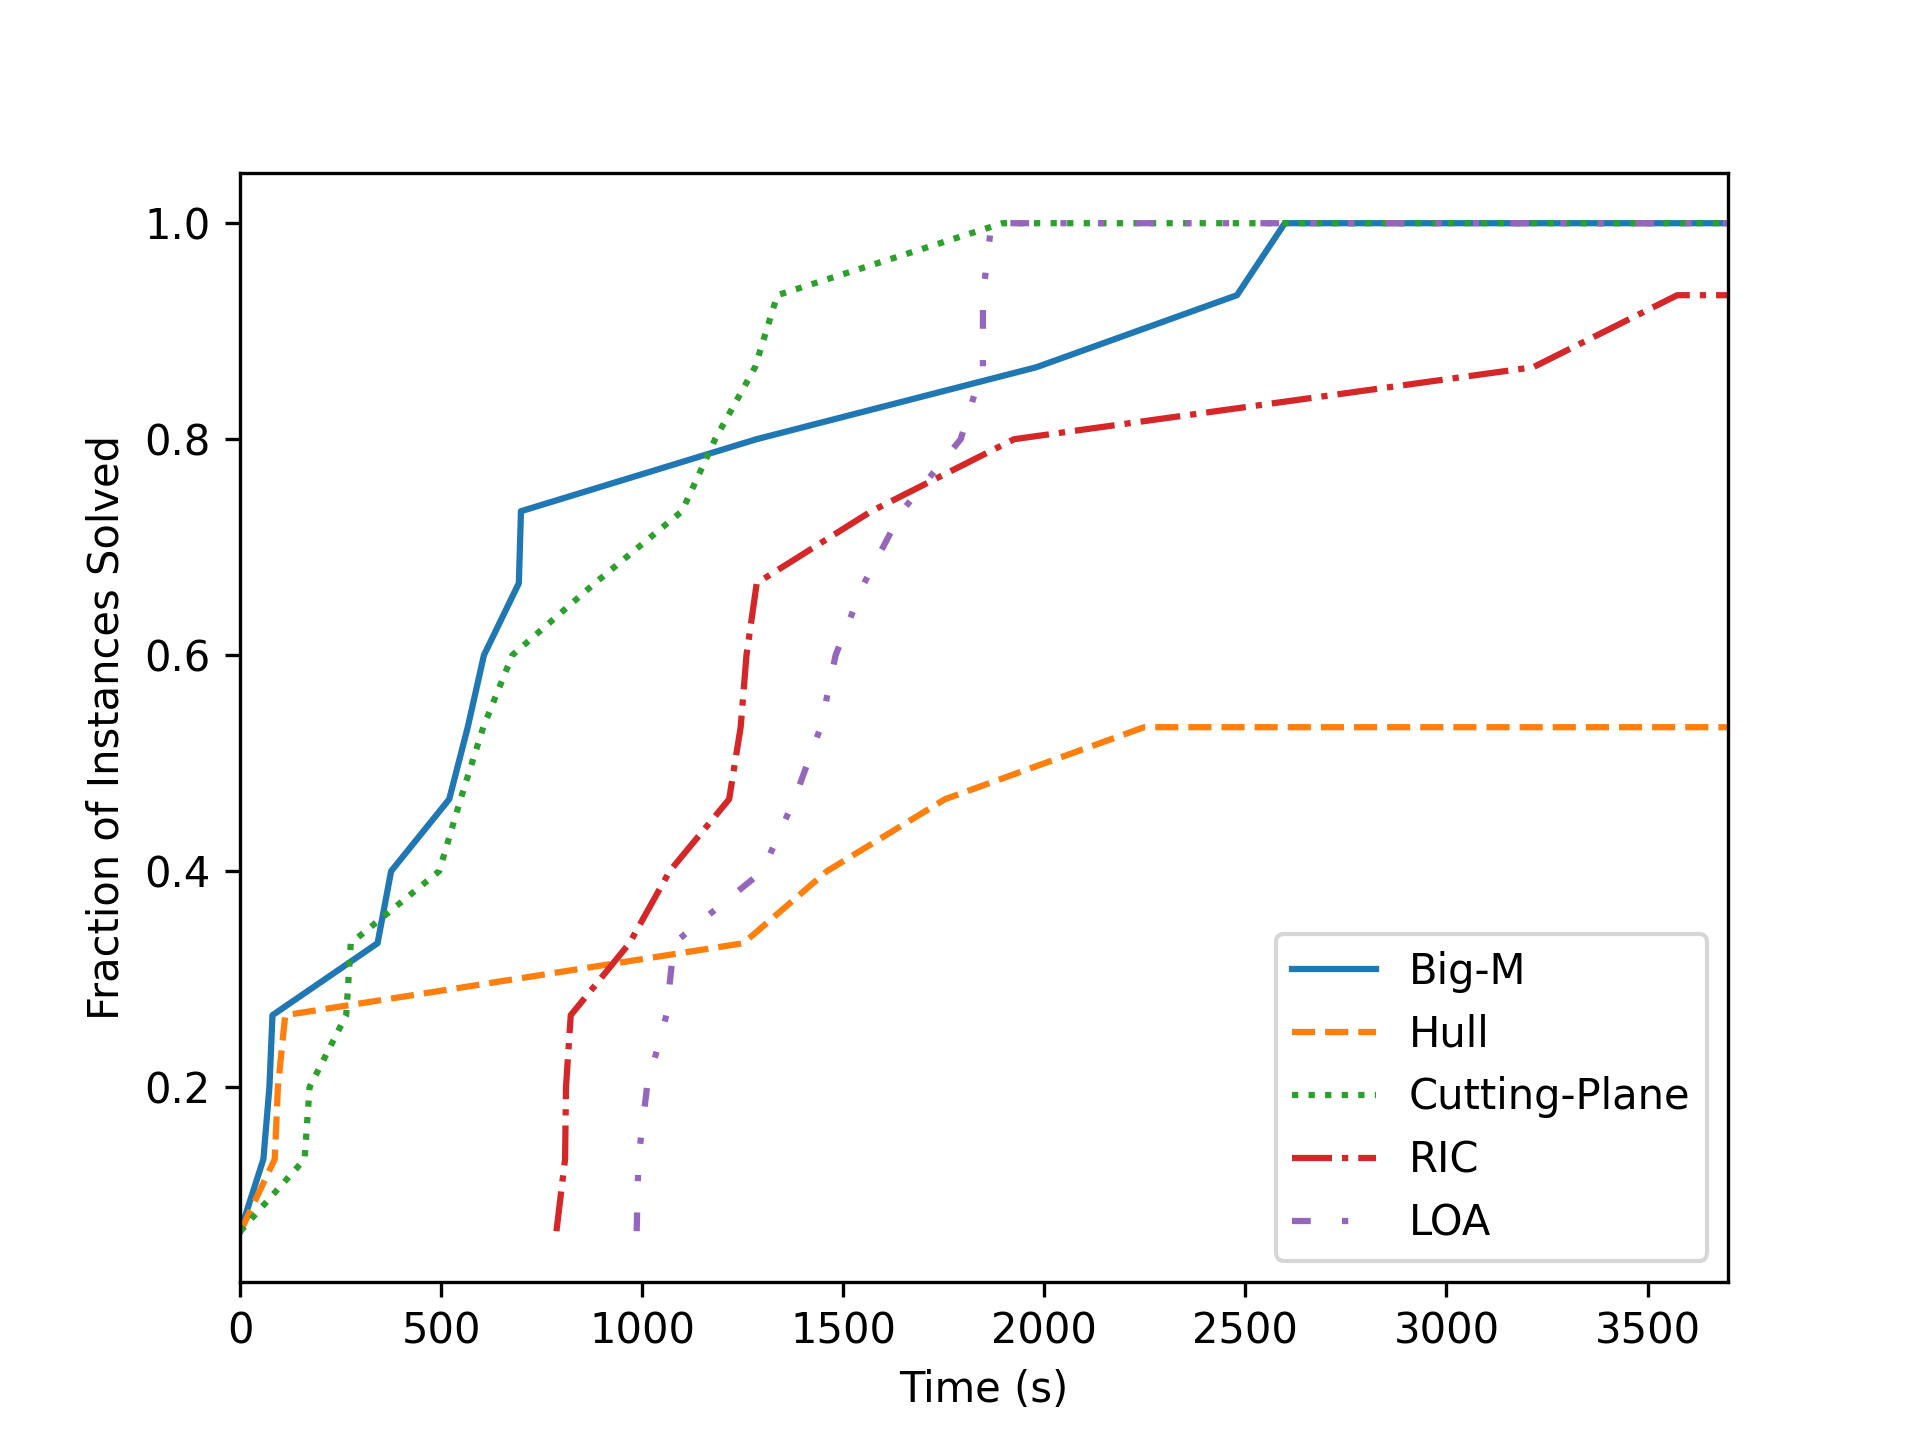
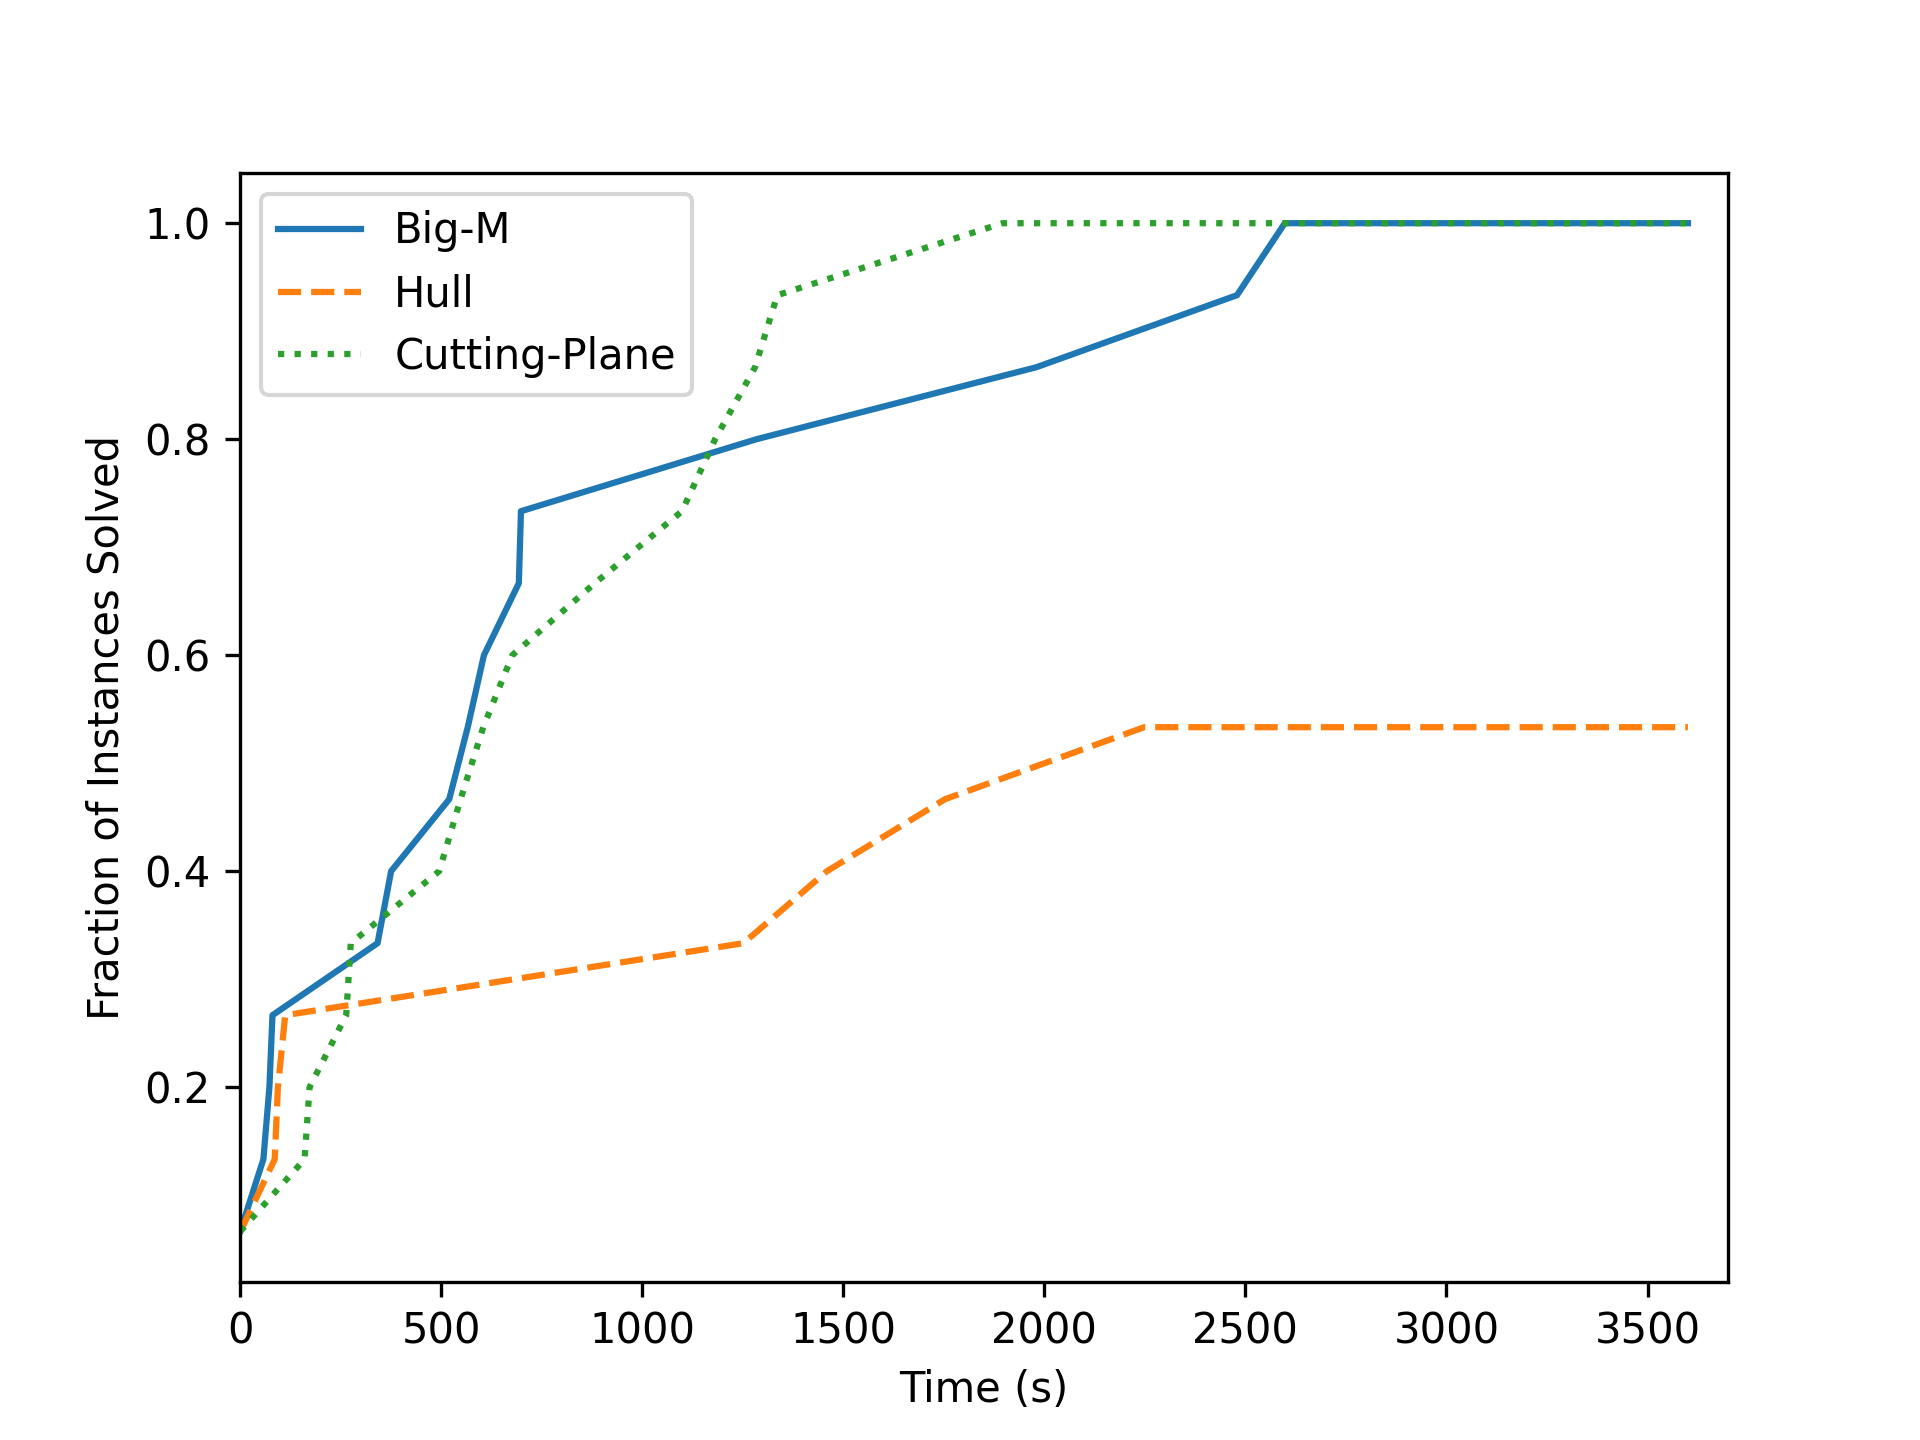
match final focapo version

diff --git a/gdp_event_constrs/plot_results.py b/gdp_event_constrs/plot_results.py
@@ -157,9 +157,9 @@ labeled_files_time = {'5 gens and 20 lines' : './data/ieee14_intersection_bigm_1
 
 labeled_files_perform = {'Big-M' : './data/ieee14_intersection_bigm_1000.json',
                          'Hull' : './data/ieee14_intersection_hull_1000.json',
-                         'Cutting-Plane' : './data/ieee14_intersection_cuttingplane_1000.json',
-                         'RIC' : './data/ieee14_intersection_RIC_1000.json',
-                         'LOA' : './data/ieee14_intersection_LOA_1000.json'}
+                         'Cutting-Plane' : './data/ieee14_intersection_cuttingplane_1000.json'}#,
+                        #  'RIC' : './data/ieee14_intersection_RIC_1000.json',
+                        #  'LOA' : './data/ieee14_intersection_LOA_1000.json'}
 
 plot_pareto_comparison(labeled_files_pareto, True)
 
